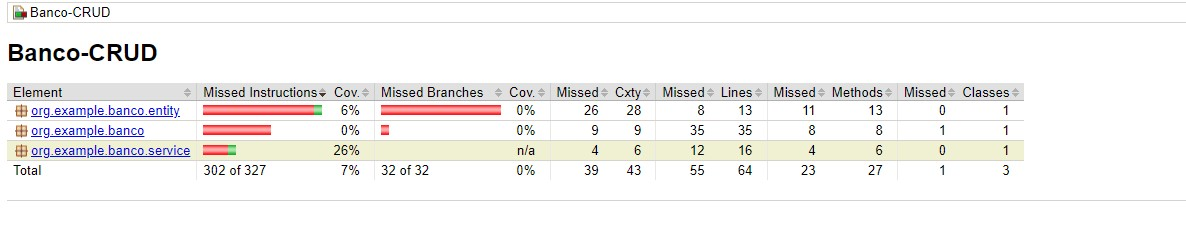
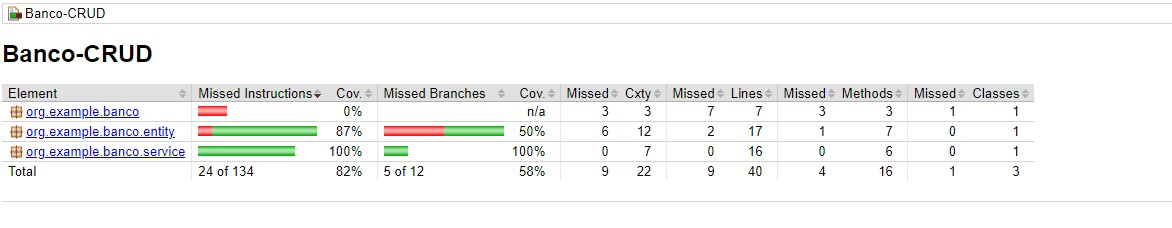
Test coverage up to 80%

diff --git a/src/test/java/org/example/banco/ContaServiceTests.java b/src/test/java/org/example/banco/ContaServiceTests.java
@@ -1,18 +1,33 @@
 package org.example.banco;
 
 import static org.junit.jupiter.api.Assertions.*;
+import static org.mockito.Mockito.verify;
 import static org.mockito.Mockito.when;
+import static org.mockito.Mockito.times;
 
+import java.util.List;
 import java.util.Optional;
 
 import org.example.banco.entity.Conta;
 import org.example.banco.repository.ContaRepository;
 import org.example.banco.service.ContaService;
-import org.junit.jupiter.api.Test;
 import org.junit.jupiter.api.extension.ExtendWith;
 import org.mockito.InjectMocks;
 import org.mockito.Mock;
+import org.mockito.MockitoAnnotations;
 import org.mockito.junit.jupiter.MockitoExtension;
+
+import net.jqwik.api.Arbitraries;
+import net.jqwik.api.Arbitrary;
+import net.jqwik.api.Combinators;
+import net.jqwik.api.ForAll;
+import net.jqwik.api.Property;
+import net.jqwik.api.Provide;
+import net.jqwik.api.arbitraries.DoubleArbitrary;
+import net.jqwik.api.arbitraries.StringArbitrary;
+import net.jqwik.api.constraints.DoubleRange;
+import net.jqwik.api.constraints.LongRange;
+import net.jqwik.api.lifecycle.BeforeTry;
 
 @ExtendWith(MockitoExtension.class)
 class ContaServiceTests {
@@ -23,15 +38,77 @@ class ContaServiceTests {
 	@InjectMocks
 	private ContaService contaService;
 	
-
+	@BeforeTry
+	void initMocks() {
+	    MockitoAnnotations.openMocks(this);
+	}
+	
 	/**
-	 * Test method for {@link org.example.banco.service.ContaService#ContaService(org.example.banco.repository.ContaRepository)}.
+	 * O override do método equals() de Conta faz com que dois objetos Conta com os mesmos valores sejam considerados iguais pois tem os mesmos campos.
 	 */
-	@Test
-	void testContaService() {
-		Conta contaMockada = new Conta("LP", 100D);
-		when(contaRepository.findById(1L)).thenReturn(Optional.of(contaMockada));
-		assertEquals(contaService.consultarContaDb(1L).getNome(), "LP");
+	
+	@Property
+	void consultarContaDeveRetornarContaCorreta(@ForAll @LongRange(min = 0) long id, @ForAll("contas") Conta conta) {
+		when(contaRepository.findById(id)).thenReturn(Optional.of(conta));
+		assertNotNull(contaService.consultarContaDb(id));
+		assertEquals(contaService.consultarContaDb(id), Optional.of(new Conta(conta.getNome(), conta.getSaldo())));
+	}
+	
+	@Property
+	void incluirNovaContaDevePersistirNoBanco(@ForAll @LongRange(min = 0) long id, @ForAll("contas") Conta conta) {
+		contaService.incluirContaDb(conta);
+		verify(contaRepository, times(1)).save(conta);
+		
+		when(contaRepository.findById(id)).thenReturn(Optional.of(conta));
+		assertEquals(contaService.consultarContaDb(id), Optional.of(new Conta(conta.getNome(), conta.getSaldo())));
+	}
+	
+	@Property
+	void excluirContaDeveApagarRegistro() {
+		long id = 1;
+		contaService.excluirContaDb(id);
+		verify(contaRepository, times(1)).deleteById(id);
+		
+		when(contaRepository.findById(id)).thenReturn(Optional.empty());
+		assertFalse(contaService.consultarContaDb(id).isPresent(), "Retorno dever ser vazio");
+	}
+	
+	@Property
+	void alterarContaDeveMudarDado(@ForAll @LongRange(min = 0) long id) {
+		Conta contaASerAlterada = new Conta("Adam", 1400D);
+		when(contaRepository.findById(id)).thenReturn(Optional.of(contaASerAlterada));
+		
+		double novoSaldo = 200D;
+		
+		contaService.alterarSaldoConta(id, novoSaldo);
+		
+		assertEquals(novoSaldo, contaASerAlterada.getSaldo());
+		verify(contaRepository, times(1)).save(contaASerAlterada);
+	}
+	
+	@Property
+	void tentarAlterarSaldoComValorNegativoDeveJogarExcecao(@ForAll @DoubleRange(min = -100, max = -1) double novoSaldo) {
+		assertThrows(IllegalArgumentException.class, () -> contaService.alterarSaldoConta(3L, novoSaldo));
+	}
+	
+	@Property
+	void consultarContasDeveRetornarZeroOuMaisContas(@ForAll("listaDeContas") List<Conta> contas) {
+		System.out.println(contas);
+		when(contaRepository.findAll()).thenReturn((contas));
+		assertTrue(contaService.consultarContasDb().size() > -1);
+	}
+	
+	@Provide
+	Arbitrary<Conta> contas() {
+		StringArbitrary nomes = Arbitraries.strings().alpha().ofMinLength(2).ofMaxLength(255);
+		DoubleArbitrary saldos = Arbitraries.doubles().greaterThan(0);
+		
+		return Combinators.combine(nomes, saldos).as(Conta::new);
+	}
+	
+	@Provide
+	Arbitrary<List<Conta>> listaDeContas() {		
+		return contas().list().ofMinSize(0).ofMaxSize(20);
 	}
 
 }

diff --git a/src/main/java/org/example/banco/CrudT1Application.java b/src/main/java/org/example/banco/CrudT1Application.java
@@ -7,6 +7,7 @@ import org.springframework.boot.SpringApplication;
 import org.springframework.boot.autoconfigure.SpringBootApplication;
 
 import java.util.List;
+import java.util.Optional;
 
 @SpringBootApplication
 public class CrudT1Application implements CommandLineRunner {
@@ -24,42 +25,42 @@ public class CrudT1Application implements CommandLineRunner {
 
     @Override
     public void run(String... args) {
-        consultarConta();
-        System.out.println("\n");
-        consultarContas();
-        System.out.println("\n");
-        incluirConta();
-        consultarContas();
-        System.out.println("\n");
-        excluirConta();
-        alterarSaldo();
-        System.out.println("\n");
-        consultarContas();
+//        consultarConta();
+//        System.out.println("\n");
+//        consultarContas();
+//        System.out.println("\n");
+//        incluirConta();
+//        consultarContas();
+//        System.out.println("\n");
+//        excluirConta();
+//        alterarSaldo();
+//        System.out.println("\n");
+//        consultarContas();
     }
 
-    public void alterarSaldo() {
-        contaService.alterarConta(2L, 150D);
-    }
-
-    public void consultarConta() {
-        long id = 1;
-        Conta conta = contaService.consultarContaDb(id);
-        System.out.println(conta);
-    }
-
-    public void excluirConta() {
-        long id = 4;
-        contaService.excluirContaDb(id);
-    }
-    public void incluirConta() {
-    	Conta conta = new Conta("Felipe", 400.00);
-        contaService.incluirContaDb(conta);
-    }
-
-    public void consultarContas() {
-        List<Conta> contas = contaService.consultarContasDb();
-        for (Conta conta : contas) {
-            System.out.println(conta);
-        }
-    }
+//    public void alterarSaldo() {
+//        contaService.alterarConta(2L, 150D);
+//    }
+//
+//    public void consultarConta() {
+//        long id = 1;
+//        Optional<Conta> conta = contaService.consultarContaDb(id);
+//        System.out.println(conta);
+//    }
+//
+//    public void excluirConta() {
+//        long id = 4;
+//        contaService.excluirContaDb(id);
+//    }
+//    public void incluirConta() {
+//    	Conta conta = new Conta("Felipe", 400.00);
+//        contaService.incluirContaDb(conta);
+//    }
+//
+//    public void consultarContas() {
+//        List<Conta> contas = contaService.consultarContasDb();
+//        for (Conta conta : contas) {
+//            System.out.println(conta);
+//        }
+//    }
 }

diff --git a/src/main/java/org/example/banco/service/ContaService.java b/src/main/java/org/example/banco/service/ContaService.java
@@ -4,6 +4,8 @@ import org.example.banco.repository.ContaRepository;
 import org.springframework.stereotype.Service;
 import org.example.banco.entity.Conta;
 import java.util.List;
+import java.util.Optional;
+
 
 @Service
 public class ContaService {
@@ -13,15 +15,14 @@ public class ContaService {
         this.contaRepository = contaRepository;
     }
 
-    public void alterarConta(Long id, Double saldo) {
-        try {
-            Conta conta = contaRepository.findById(id).get();
+    public void alterarSaldoConta(Long id, Double saldo) throws IllegalArgumentException {
+    	if (saldo > 0) {
+    		Conta conta = contaRepository.findById(id).get();
             conta.setSaldo(saldo);
             contaRepository.save(conta);
-        }
-        catch (Exception e) {
-            System.out.println(e.getMessage());
-        }
+    	} else {
+    		throw new IllegalArgumentException("Saldo deve ser maior que 0.");
+    	}
     }
 
     public void excluirContaDb(Long id) {
@@ -32,8 +33,8 @@ public class ContaService {
         return contaRepository.findAll();
     }
 
-    public Conta consultarContaDb(Long id) {
-        return contaRepository.findById(id).get();
+    public Optional<Conta> consultarContaDb(Long id) {
+        return contaRepository.findById(id);
     }
 
     public void incluirContaDb(Conta conta) {

diff --git a/src/main/java/org/example/banco/entity/Conta.java b/src/main/java/org/example/banco/entity/Conta.java
@@ -1,19 +1,24 @@
 package org.example.banco.entity;
 
+import java.util.Objects;
+
 import jakarta.persistence.*;
 import lombok.*;
 
 @Entity
 @Table(name="conta")
-@NoArgsConstructor
-@AllArgsConstructor
-@Data
+//@NoArgsConstructor
+//@AllArgsConstructor
+//@Data
 public class Conta {
     @Id
     @GeneratedValue(strategy = GenerationType.IDENTITY)
     private Long id;
     private String nome;
     private Double saldo;
+    
+    public Conta() {
+	}
 
     public Conta(String nome, Double saldo) {
     	this.nome = nome;
@@ -28,8 +33,22 @@ public class Conta {
 	public String getNome() {
 		return this.nome;
 	}
+	
+	public Double getSaldo() {
+		return this.saldo;
+	}
 
 	public void setSaldo(Double saldo) {
 		this.saldo = saldo;
+	}
+	
+	@Override
+	public boolean equals(Object o) {
+		if (this == o) return true;
+		if (!(o instanceof Conta)) return false;
+		Conta conta = (Conta) o;
+		return Objects.equals(id, conta.id) &&
+				Objects.equals(nome, conta.nome) &&
+				Objects.equals(saldo, conta.saldo);
 	}
 }

diff --git a/readme.md b/readme.md
@@ -2,15 +2,24 @@
 
 ### Especificação:
 
-Esta é a aplicação de um banco fictício, que contém um CRUD feito em Java com Spring Boot e outras tecnologias.
+Esta é a aplicação de um banco fictício, que contém um CRUD feito em Java com Spring Boot e outras tecnologias. A seguir são os comportamentos esperados do software:
 
-- Projeto feito com Maven.
-- JUnit para testes unitários.
-- JaCoCo utilizado para a cobertura dos testes unitários.
-- Mockito para mocks das consultas ao banco.
-- MySQL para a persistência dos dados.
+C -> Adicionar nova conta dentro do banco de dados do banco.
+R -> Obter dados de uma ou várias contas.
+U -> Editar saldo de uma conta já existente.
+R -> Remover uma conta via ID.
+
+### Tecnologias:
+
+- Projeto feito com Maven;
+- Spring Boot framework;
+- JUnit para testes unitários;
+- JaCoCo utilizado para a cobertura dos testes unitários;
+- Mockito para mocks das consultas ao banco;
+- MySQL para a persistência dos dados;
 - Lombok para automação de código boilerplate.
 
-### Cobertura de teste:
+### Cobertura de testes:
+#### Objetivo: 80%.
 
 ![Cobertura JaCoCo](https://github.com/5TheLoneWolf5/EDDS_PB_TP1/blob/main/jacoco_coverage.jpg?raw=true)
